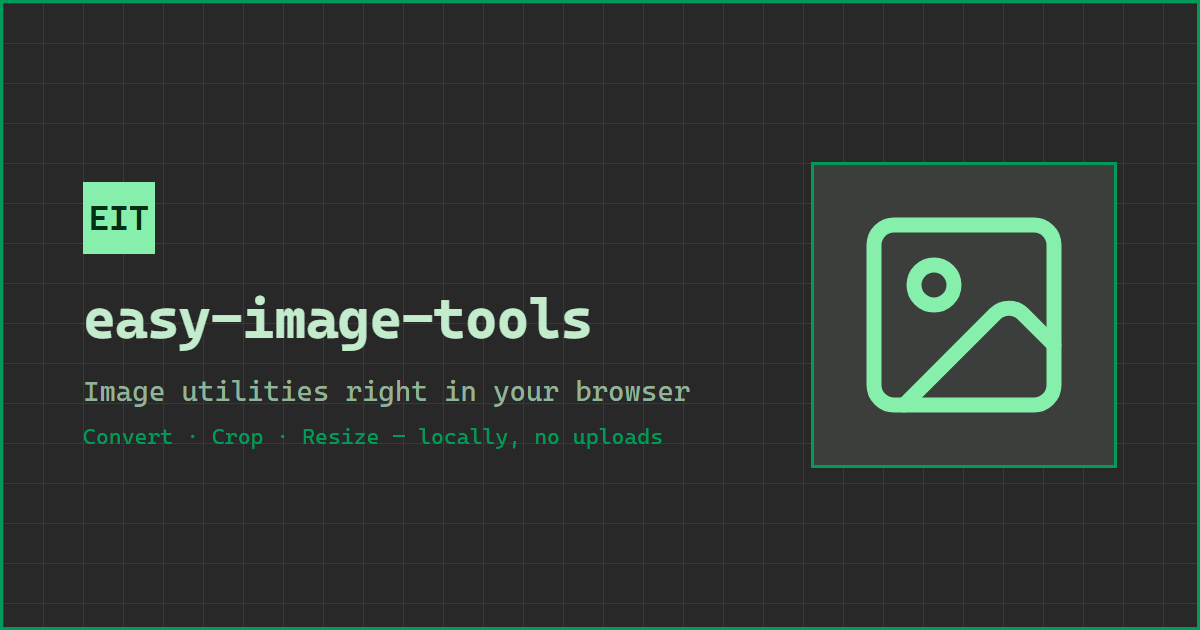
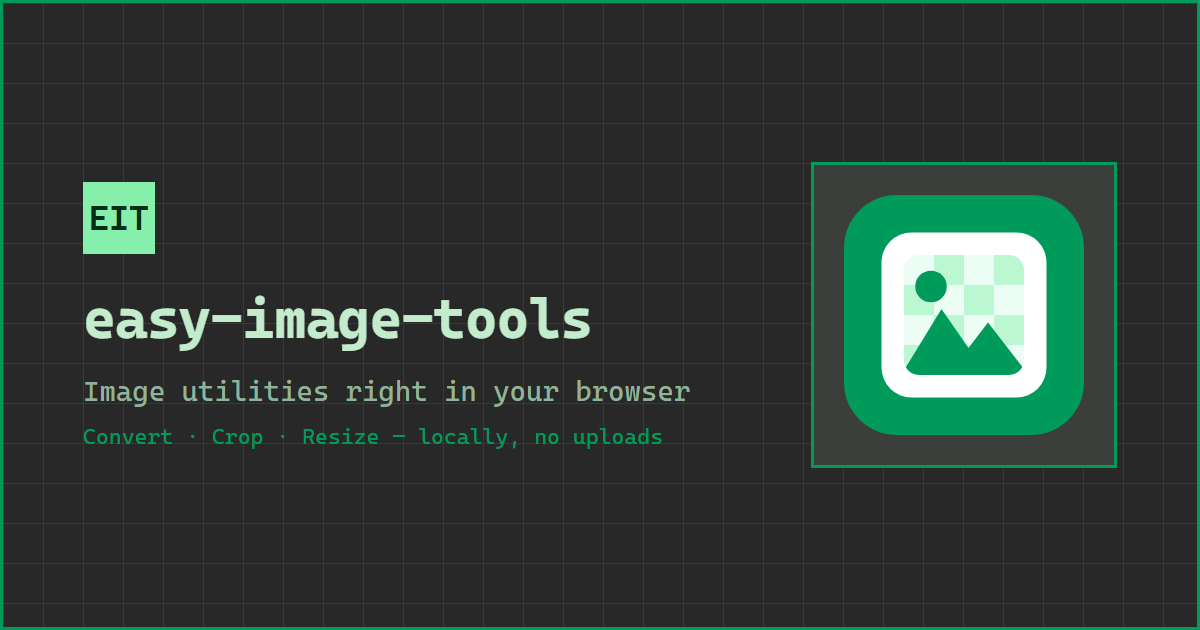
feat: add og image generator and generate images

Changed region(s): [[0.6783, 0.3016, 0.925, 0.6937]]

diff --git a/web/src/lib/components/Seo.svelte b/web/src/lib/components/Seo.svelte
@@ -11,7 +11,16 @@
 	let { title, description, path }: Props = $props();
 
 	const url = $derived(`${SITE_URL}${path}`);
-	const image = `${SITE_URL}/og/default.png`;
+	// NOTE: og:image must be absolute, but at prerender both `resolve()` and
+	// `assets` emit page-relative paths ("." / ".."), correct only for HTML
+	// references - so like canonical it is SITE_URL + literal path.
+	const image = $derived(
+		`${SITE_URL}/og/${
+			path.startsWith("/tools/")
+				? `${path.slice("/tools/".length)}.png`
+				: "default.png"
+		}`,
+	);
 </script>
 
 <svelte:head>
@@ -24,6 +33,9 @@
 	<meta property="og:description" content={description} />
 	<meta property="og:url" content={url} />
 	<meta property="og:image" content={image} />
+	<meta property="og:image:width" content="1200" />
+	<meta property="og:image:height" content="630" />
+	<meta property="og:image:alt" content={title} />
 	<meta name="twitter:card" content="summary_large_image" />
 	<meta name="twitter:title" content={title} />
 	<meta name="twitter:description" content={description} />

diff --git a/docs/plan-seo.md b/docs/plan-seo.md
@@ -128,9 +128,11 @@
 | —      | `EIT-113` | решение по вордстату: интенты «из формата в PNG» и «сжать до N КБ»                                                                |
 | —      | `EIT-114` | универсальный конвертер `/convert-image`                                                                                          |
 
-**S1e:** путь к картинке строить через `resolve()` из `$app/paths`, как favicon
-в `+layout.svelte`, а не литералом `/og/…`. **S1g:** существующие страницы
-`convert-png-to-jpg`, `convert-png-to-webp`, `png-to-bmp` остаются
+**S1e:** og:image — абсолютный `SITE_URL` + литеральный `/og/<slug>.png`.
+`resolve()` и `assets` из `$app/paths` в пререндере отдают
+странично-относительные пути (`./`, `../`) — они правильны для HTML-ссылок
+(favicon), но внутри абсолютного мета-тега дают битый URL. **S1g:** существующие
+страницы `convert-png-to-jpg`, `convert-png-to-webp`, `png-to-bmp` остаются
 самостоятельными лендингами со своим контентом — селектор формата их не
 заменяет.
 
